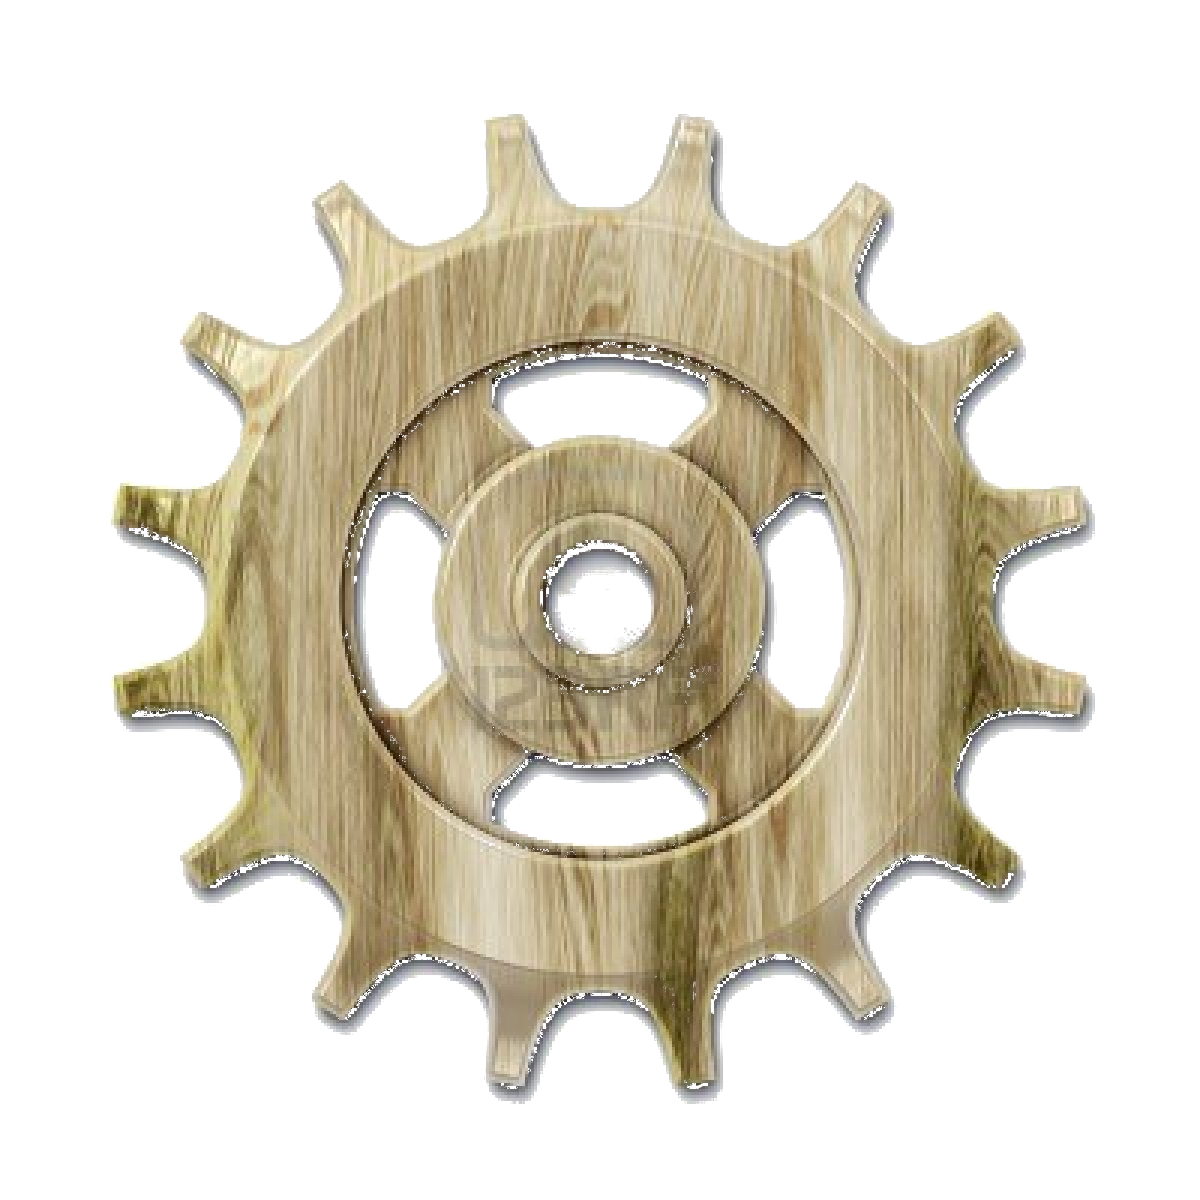
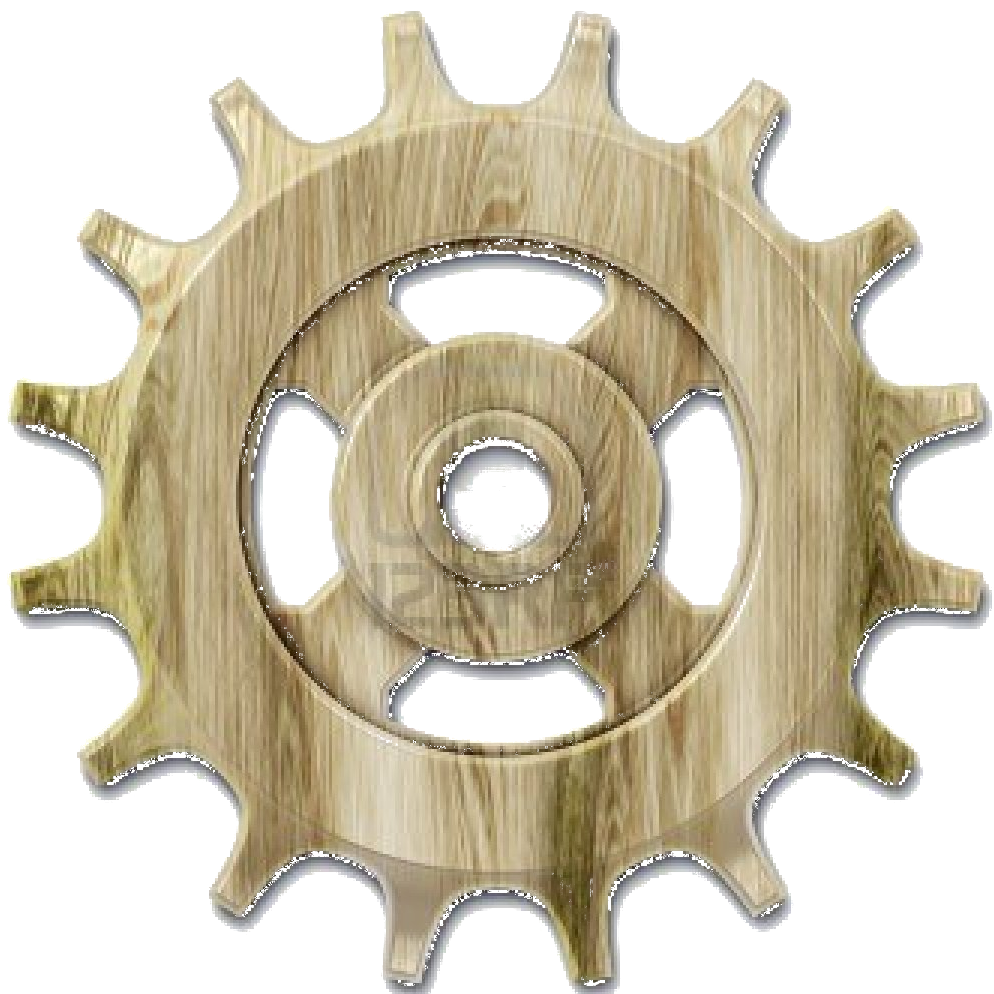
Detalles

diff --git a/vista/src/controller/viewFactory/VistaEngranajeFactory.cpp b/vista/src/controller/viewFactory/VistaEngranajeFactory.cpp
@@ -22,7 +22,7 @@ VistaEngranajeFactory::~VistaEngranajeFactory() {
 FiguraView* VistaEngranajeFactory::crear(int x, int y, int w,int h) {
 	Resizer* r = Resizer::Instance();
 	int ancho, alto;
-	r->adaptarDimensionLogica(ANCHO_ENGRANAJE,ANCHO_ENGRANAJE,ancho,alto);
+	r->adaptarDimensionLogica(RADIO_ENGRANAJE*2,RADIO_ENGRANAJE*2,ancho,alto);
 	return new VistaEngranaje(x, y, ancho, alto, this->textura, dynamic_cast<SimpleEditorAnguloFijo*>(this->controller));
 }
 

diff --git a/modelo/src/objeto/CintaTransportadora.h b/modelo/src/objeto/CintaTransportadora.h
@@ -12,7 +12,7 @@
 #include <vector>
 #include <SDL2/SDL.h>
 #include "Estirable.h"
-class CintaTransportadora: public Engranaje, public Estirable {
+class CintaTransportadora: public Engranaje {
 public:
 	CintaTransportadora();
 	CintaTransportadora(const CintaTransportadora& figura);

diff --git a/modelo/src/objeto/Engranaje.cpp b/modelo/src/objeto/Engranaje.cpp
@@ -185,7 +185,7 @@ void Engranaje::estirar(float delta) {
 
 float Engranaje::getAncho() {
 //	cout << this->radio << endl;
-	return this->radio;
+	return this->radio * 2 ;
 }
 
 void Engranaje::getSiguienteRadio() {
